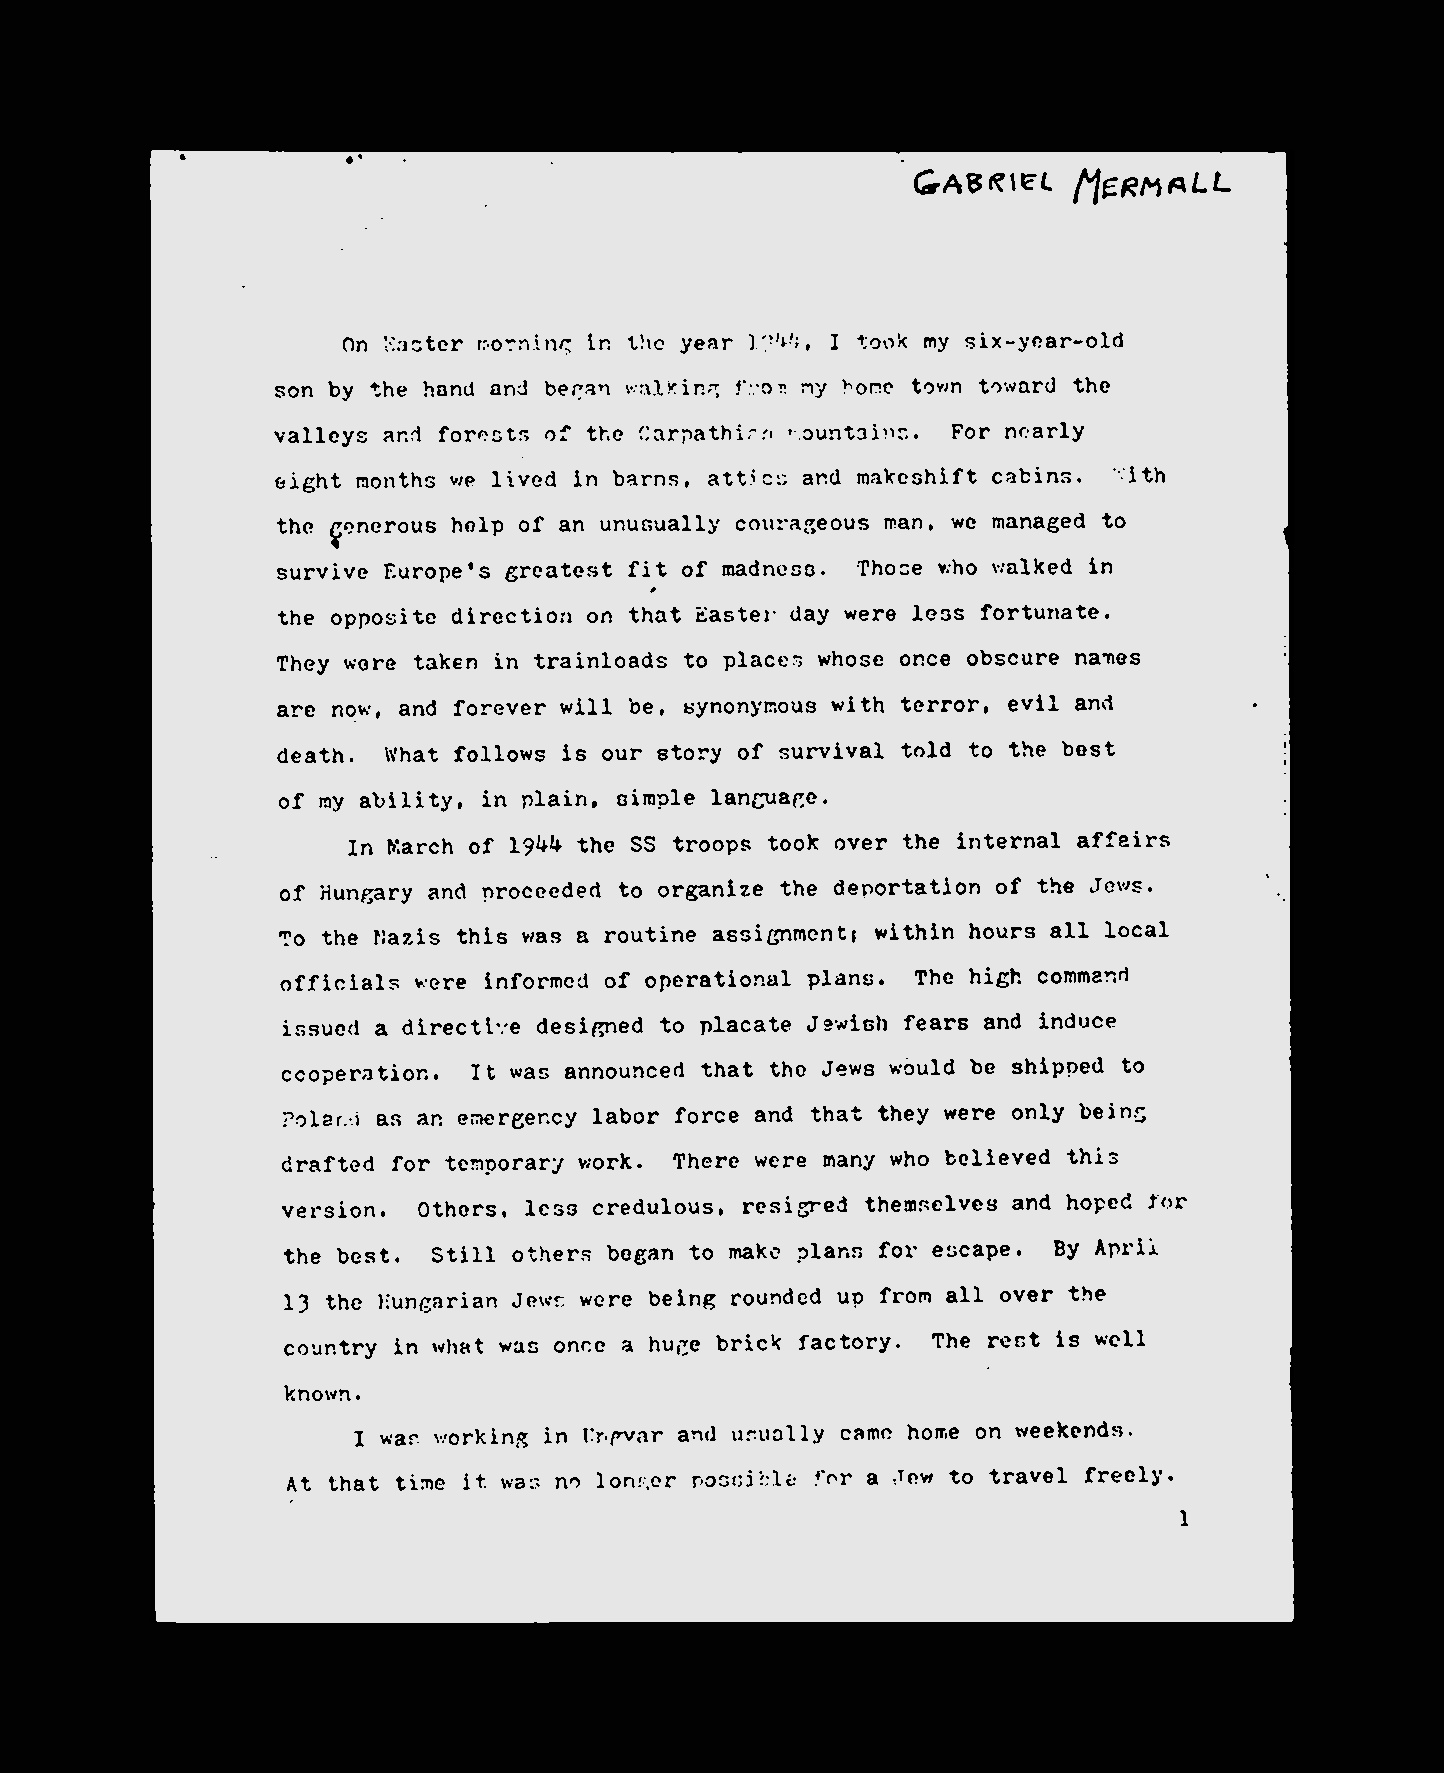
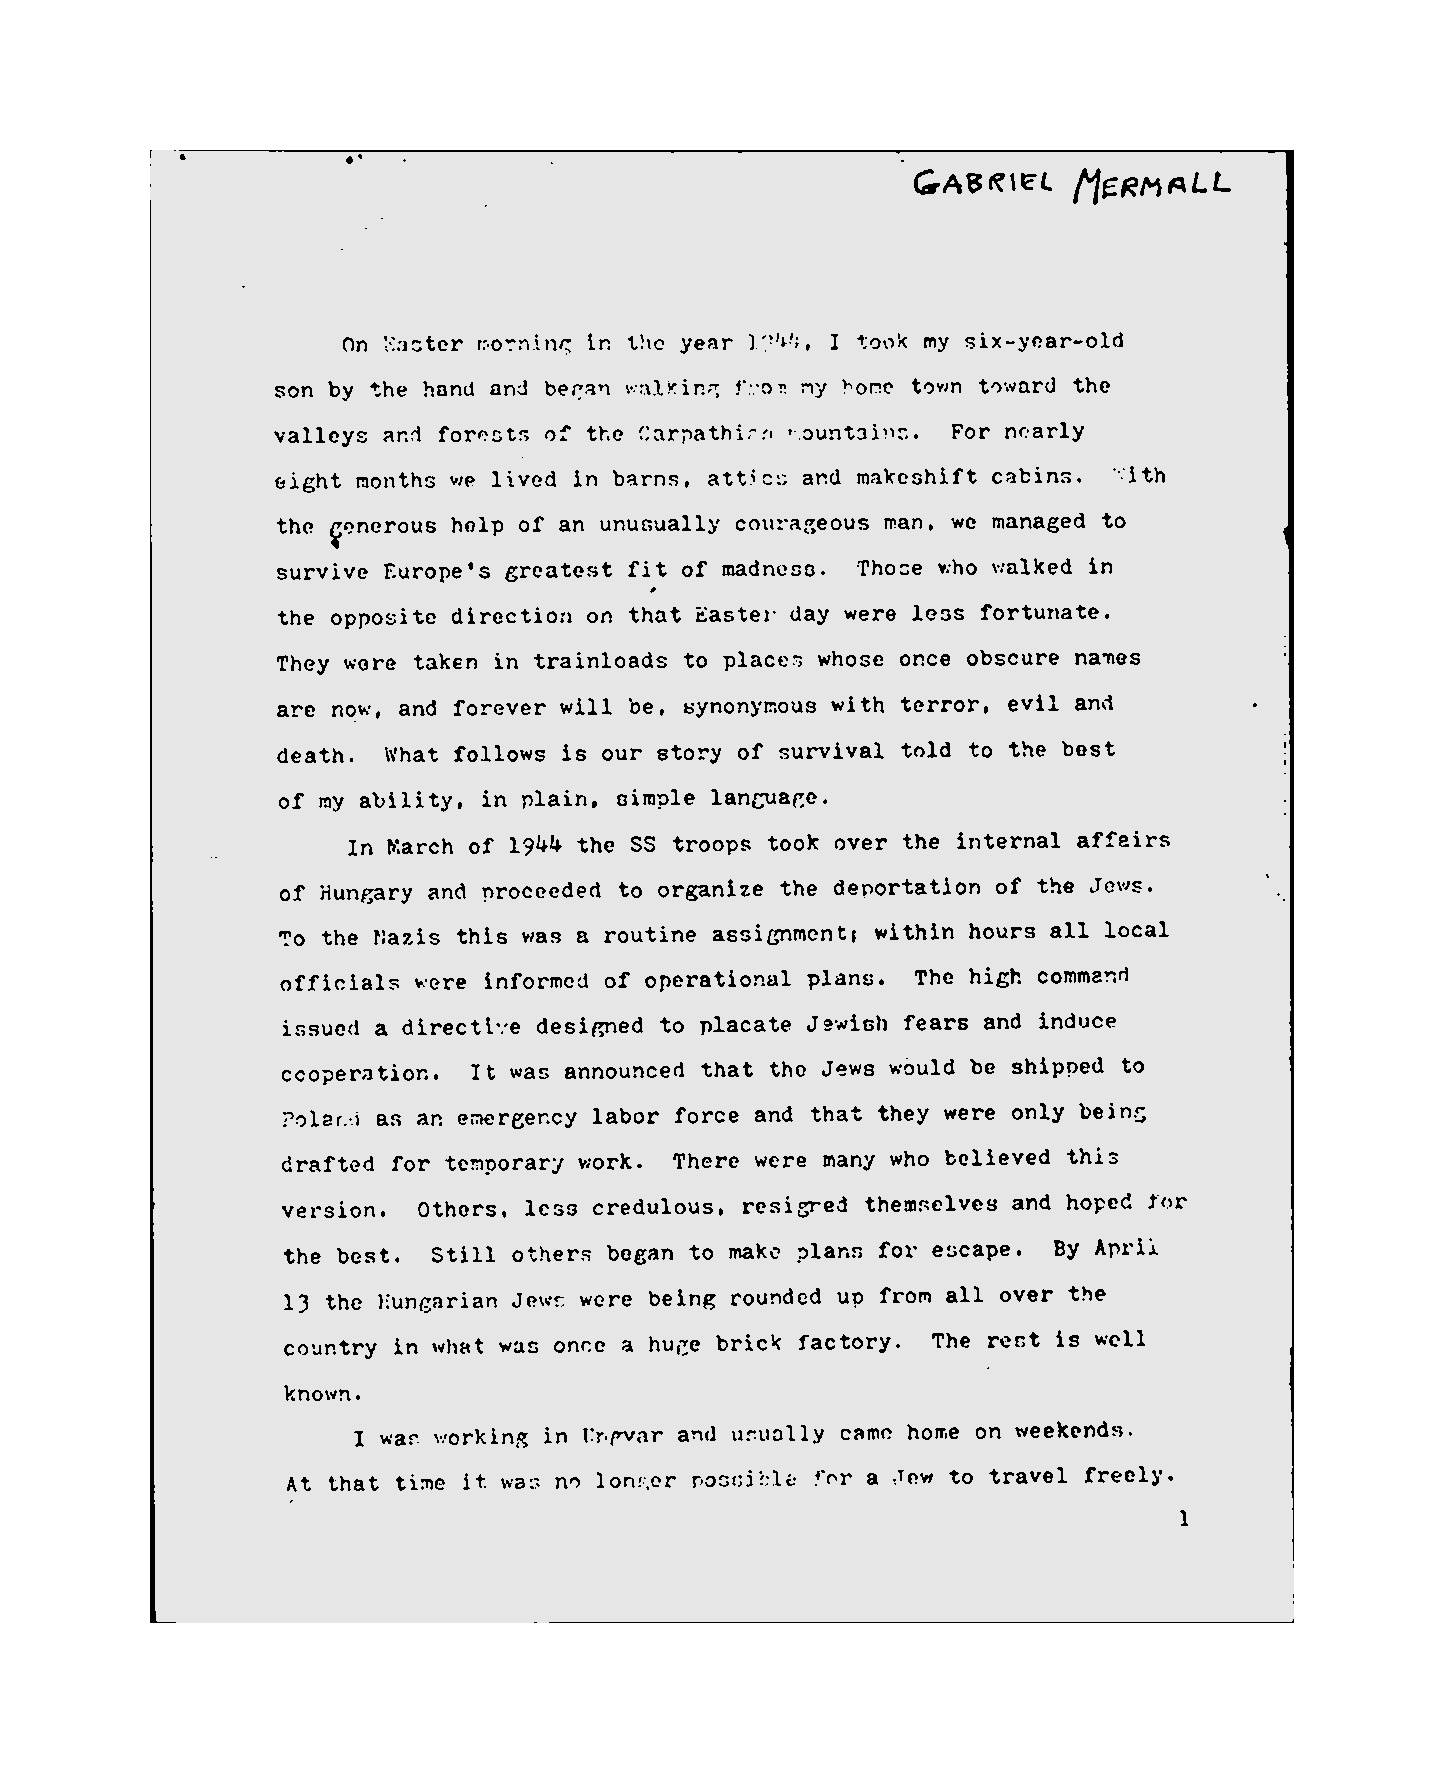
pytess basics done

diff --git a/src/2_0_pytesseract_basics.py b/src/2_0_pytesseract_basics.py
@@ -2,4 +2,11 @@ import pytesseract
 from PIL import Image
 
 img_file = "../data/page_01.jpg"
+no_noise = "temp/no_noise.jpg"
+
+img = Image.open(no_noise)
+
+ocr_result = pytesseract.image_to_string(no_noise)
+
+print(ocr_result)
 
